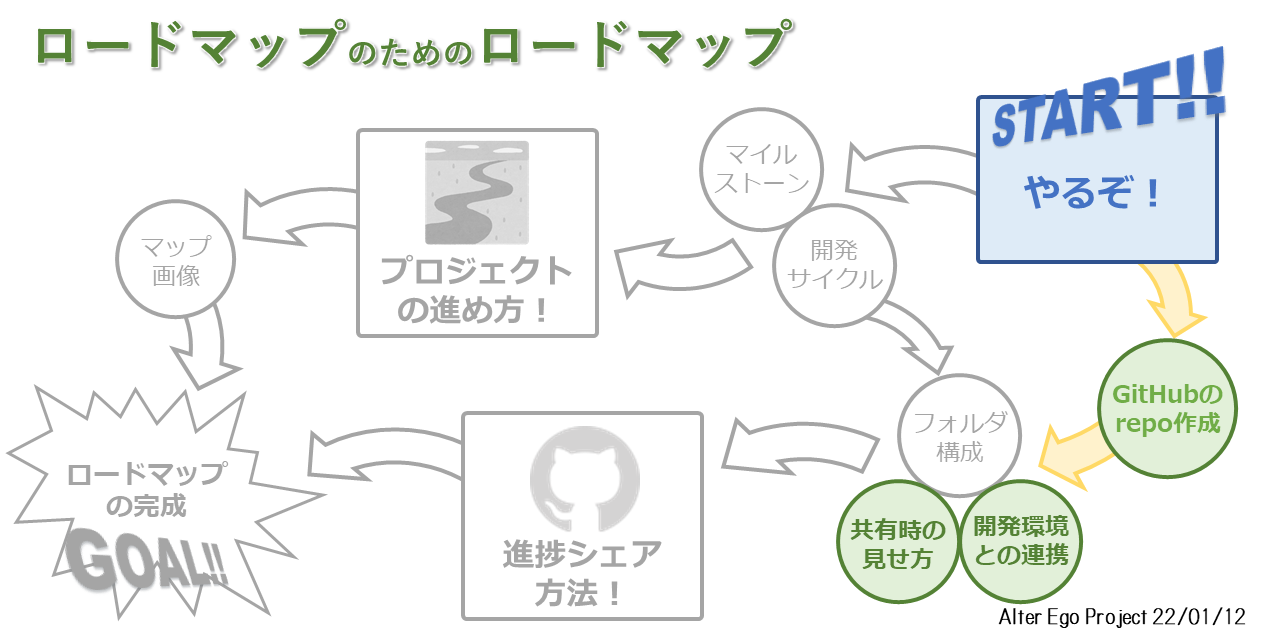
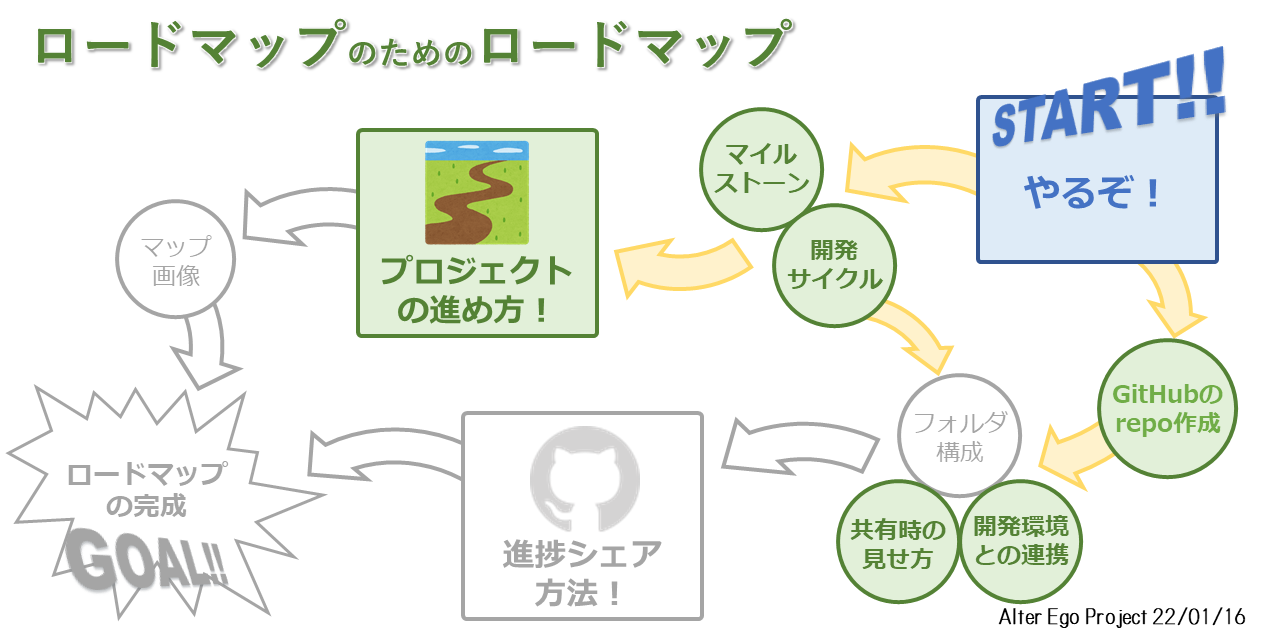
update

Changed region(s): [[0.2812, 0.1562, 0.7812, 0.5938]]

diff --git a/README.md b/README.md
@@ -7,18 +7,31 @@
 YouTubeのライブ配信( https://www.youtube.com/c/AlterEgoProject/live )で実際にプログラムを動かしていて、現在「あつまれ どうぶつの森」のプレイを題材に学習機構などの構築を目指しています。
 
 # 進捗
-![Roadmap Image](/img/roadmap4roadmap.png)
+![Roadmap Image](img/roadmap4roadmap.png)
 
-# ロードマップ4ロードマップ (22/01/12)
+# ロードマップ4ロードマップ (22/01/16)
 **プロジェクトの進め方の決定**
-- [ ] マイルストーンの設定
-- [ ] 開発サイクルの形式化
+- [x] マイルストーンの設定
+    - 電脳生物の完成 << 電脳生物の雛形 (進化・学習環境) < 感情・ 記憶機構 < 各種入出力
+    - 入力: ゲーム画面, 音声, チャットの入力
+    - 出力: コントローラー, チャット (, 3Dモデル, 合成音声?) の出力
+    - 感情機構: 特定の情報に対して快・不快を設定
+    - 記憶機構: 何かを覚えておく、学習とは別の短期・長期記憶
+    - 学習環境: 電脳生物に学習するための教師 (深層学習)
+    - 進化環境: 電脳生物の進化アルゴリズム (遺伝的?)
+- [x] 開発サイクルの形式化
+    - マイルストーン/小目標を達成できるようプロセスを細分化
+    - 細分化したプロセスを設計
+    - コーディング&テスト
+    - 必要に応じて全体のコードを再設計
+    - ビジュアル化
 
 **進捗シェア方法の決定**
+
 - [x] GitHubリポジトリの作成
 - [x] 開発環境との連携
     - ローカルへクローン
-    - Pycharm との連携
+    - PyCharm との連携
 - [ ] フォルダ構成のフォーマット
     - マイルストーン/中目標/小目標?
 - [x] SNS共有時の見え方の調整
